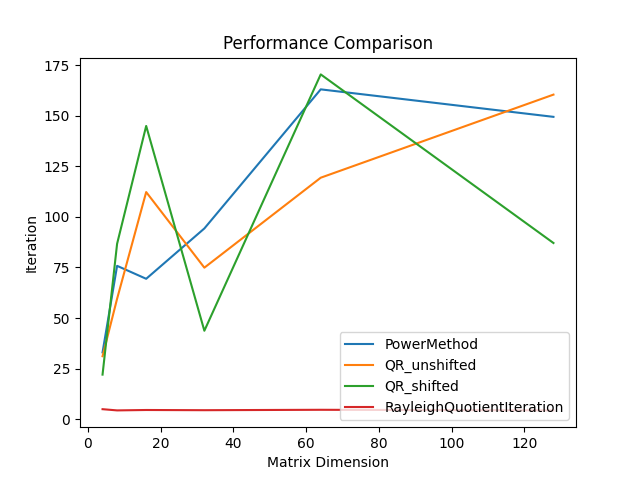
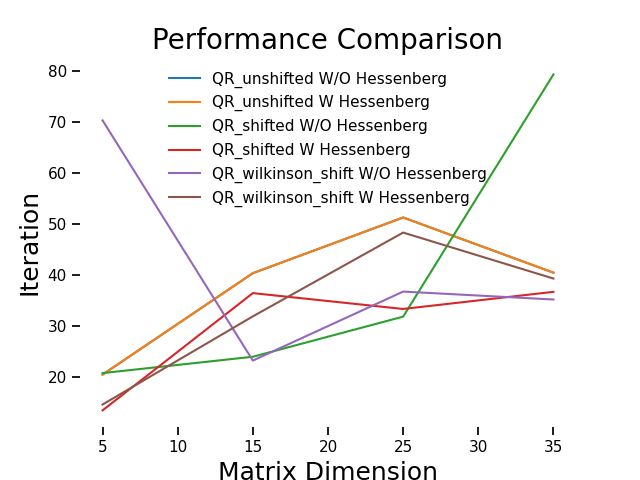
techniques comparison data

diff --git a/performanceComparison/comparePerfDriver.py b/performanceComparison/comparePerfDriver.py
@@ -1,43 +1,81 @@
 import sys, os
 THIS_FOLDER = os.path.dirname(os.path.abspath(__file__))
-from efficient_eigensolvers import PowerMethod, QR_unshifted, QR_shifted, RayleighQuotientIteration
+from efficient_eigensolvers import PowerMethod, QR_unshifted, QR_shifted, QR_wilkinson_shift, RayleighQuotientIteration
 from matricesGenerator import matrix_generator
 import time
 import math
 import matplotlib.pyplot as plt
 from scipy.linalg import hessenberg
+import csv
+
+import seaborn as sns
+"""
+sns.set(font='Franklin Gothic Book',
+        rc={
+ 'axes.axisbelow': False,
+ 'axes.edgecolor': 'lightgrey',
+ 'axes.grid': False,
+ 'axes.labelcolor': 'dimgrey',
+ 'axes.spines.right': False,
+ 'axes.spines.top': False,
+ 'figure.facecolor': 'white',
+ 'lines.solid_capstyle': 'round',
+ 'patch.edgecolor': 'w',
+ 'patch.force_edgecolor': True,
+ 'text.color': 'dimgrey',
+ 'xtick.bottom': False,
+ 'xtick.color': 'dimgrey',
+ 'xtick.direction': 'out',
+ 'xtick.top': False,
+ 'ytick.colo': 'dimgrey',
+ 'ytick.direction': 'out',
+ 'ytick.left': False,
+ 'ytick.right': False})
+"""
+sns.set_context("notebook", rc={"font.size":16,
+                                "axes.titlesize":20,
+                                "axes.labelsize":18})
 
 if __name__ == '__main__':
-    top_dim = 8
-    dim_list = [2**i for i in range(2, top_dim)]
-    func_list = [PowerMethod, QR_unshifted, QR_shifted, RayleighQuotientIteration]
-    convergence_condition = 0.00001
-    for func in func_list:
-        time_list = []
-        iteration_list = []
-        for dim in dim_list:
-            #average
-            time_l = 0
-            iteration = 0
-            for _ in range(10):
-                A, eigenvals = matrix_generator(dim)
-                t_start = time.time()
-                eigenvec, eigenval, iterations = func(A, convergence_condition)
-                t_end = time.time()
-                time_length = t_end - t_start
-                time_l = time_l + time_length
-                iteration = iteration + iterations
-            time_l = time_l/10
-            iteration = iteration/10
-            time_list.append(time)
-            iteration_list.append(iteration)
+    with open('performance_comparison.csv', 'w') as csvfile:
+        csvwriter = csv.writer(csvfile)
+        top_dim = 4
+        dim_list = [5+10*i for i in range(top_dim)]
+        func_list = [QR_unshifted, QR_shifted, QR_wilkinson_shift]
+        convergence_condition = 0.0001
+        for func in func_list:
+            iteration_w_hessen_list = []
+            iteration_wo_hessen_list = []
+            for dim in dim_list:
+                iteration_wo_hessen = 0
+                iteration_w_hessen = 0
 
-        plt.plot(dim_list, iteration_list, label= func.__name__)
-        #plt.plot(dim_list, time_list ,label=func.__name__)
-    plt.xlabel("Matrix Dimension")
-    #plt.ylabel("Time")
-    plt.ylabel("Iteration")
-    plt.title("Performance Comparison")
-    plt.legend()
-    plt.savefig("performance_compare_iteration.png")
-    plt.show()
+                for _ in range(20):
+                    #generate the random matrix
+                    A, eigenvals = matrix_generator(dim)
+                    eigenvec, eigenval, iterations = func(A, convergence_condition)
+                    iteration_wo_hessen = iterations/20 + iteration_wo_hessen
+
+                    #with_hessenberge:
+                    H,Q = hessenberg(A, calc_q=True)
+                    eigenvec, eigenval, iterations = func(H, convergence_condition)
+                    iteration_w_hessen = iterations/20 + iteration_w_hessen
+
+                iteration_wo_hessen_list.append(iteration_wo_hessen)
+                iteration_w_hessen_list.append(iteration_w_hessen)
+
+            csvwriter.writerow([{func.__name__}])
+            csvwriter.writerow(iteration_wo_hessen_list)
+            csvwriter.writerow(iteration_w_hessen_list)
+            plt.plot(dim_list, iteration_wo_hessen_list, label= f'{func.__name__} W/O Hessenberg')
+            plt.plot(dim_list, iteration_w_hessen_list, label= f'{func.__name__} W Hessenberg')
+
+
+
+        plt.xlabel("Matrix Dimension")
+        plt.ylabel("Iteration")
+        plt.title("Performance Comparison")
+        sns.despine(left=True, bottom=True)
+        plt.legend(frameon=False)
+        plt.savefig("performance_compare_iteration.png")
+        plt.show()

diff --git a/performanceComparison/efficient_eigensolvers.py b/performanceComparison/efficient_eigensolvers.py
@@ -2,7 +2,6 @@
 
 import scipy.linalg as la
 import numpy as np
-from tabulate import tabulate
 import matplotlib.pyplot as plt
 import os
 from matricesGenerator import matrix_generator
@@ -53,10 +52,31 @@ def QR_unshifted(A, convergence_condition=0.0001):
 
 ######shifted#######
 
-def WilkinsonShift( a, b, c):
+def WilkinsonShift( a, b, c, d):
     # Calculate Wilkinson's shift for symmetric matrices:
     delta = (a-c)/2
-    return c - np.sign(delta) * b**2/(np.abs(delta) + math.sqrt(delta**2+b**2))
+    return c - np.sign(delta) * b*d /(np.abs(delta) + math.sqrt( delta**2 + b*d))
+
+def QR_wilkinson_shift(A, convergence_condition=0.00001):
+    idx = 0
+    N = A.shape[0]
+    pQ = np.identity(N)
+    while True:
+        idx = idx + 1
+        lam = A[0, 0]
+        # pick a shift
+        mu = WilkinsonShift(A[N-2,N-2], A[N-2,N-1], A[N-1, N-1], A[N-1,N-2])
+        Q, R = qr(A - mu * np.identity(N))
+        A = np.matmul(R, Q) + mu * np.identity(N)
+        pQ = np.matmul(pQ, Q)
+        # calculate the convergence condition
+        if np.abs(A[0, 0] - lam) < convergence_condition:
+            break
+
+    eigenv = pQ[:, 0]
+    eigenv = eigenv / np.linalg.norm(eigenv)
+    return eigenv, A[0, 0], idx
+
 
 def QR_shifted(A, convergence_condition=0.00001):
     idx = 0
@@ -78,7 +98,8 @@ def QR_shifted(A, convergence_condition=0.00001):
     eigenv = eigenv / np.linalg.norm(eigenv)
     return eigenv, A[0, 0], idx
 
-
+def QR_deflation(A, convergence_condition=0.00001):
+    return
 ##########################Rayleigh Quotient Iteration######################
 
 def RayleighQuotientIteration(A, convergence_condition=0.00001):

diff --git a/performanceComparison/PIM.py b/performanceComparison/PIM.py
@@ -6,7 +6,6 @@ import os
 THIS_FOLDER = os.path.dirname(os.path.abspath(__file__))
 info_list = []
 
-
 def PowerMethod(A, norm_indicator=True, converge_range=0.0001, file_path=""):
     r, c = A.shape
 
